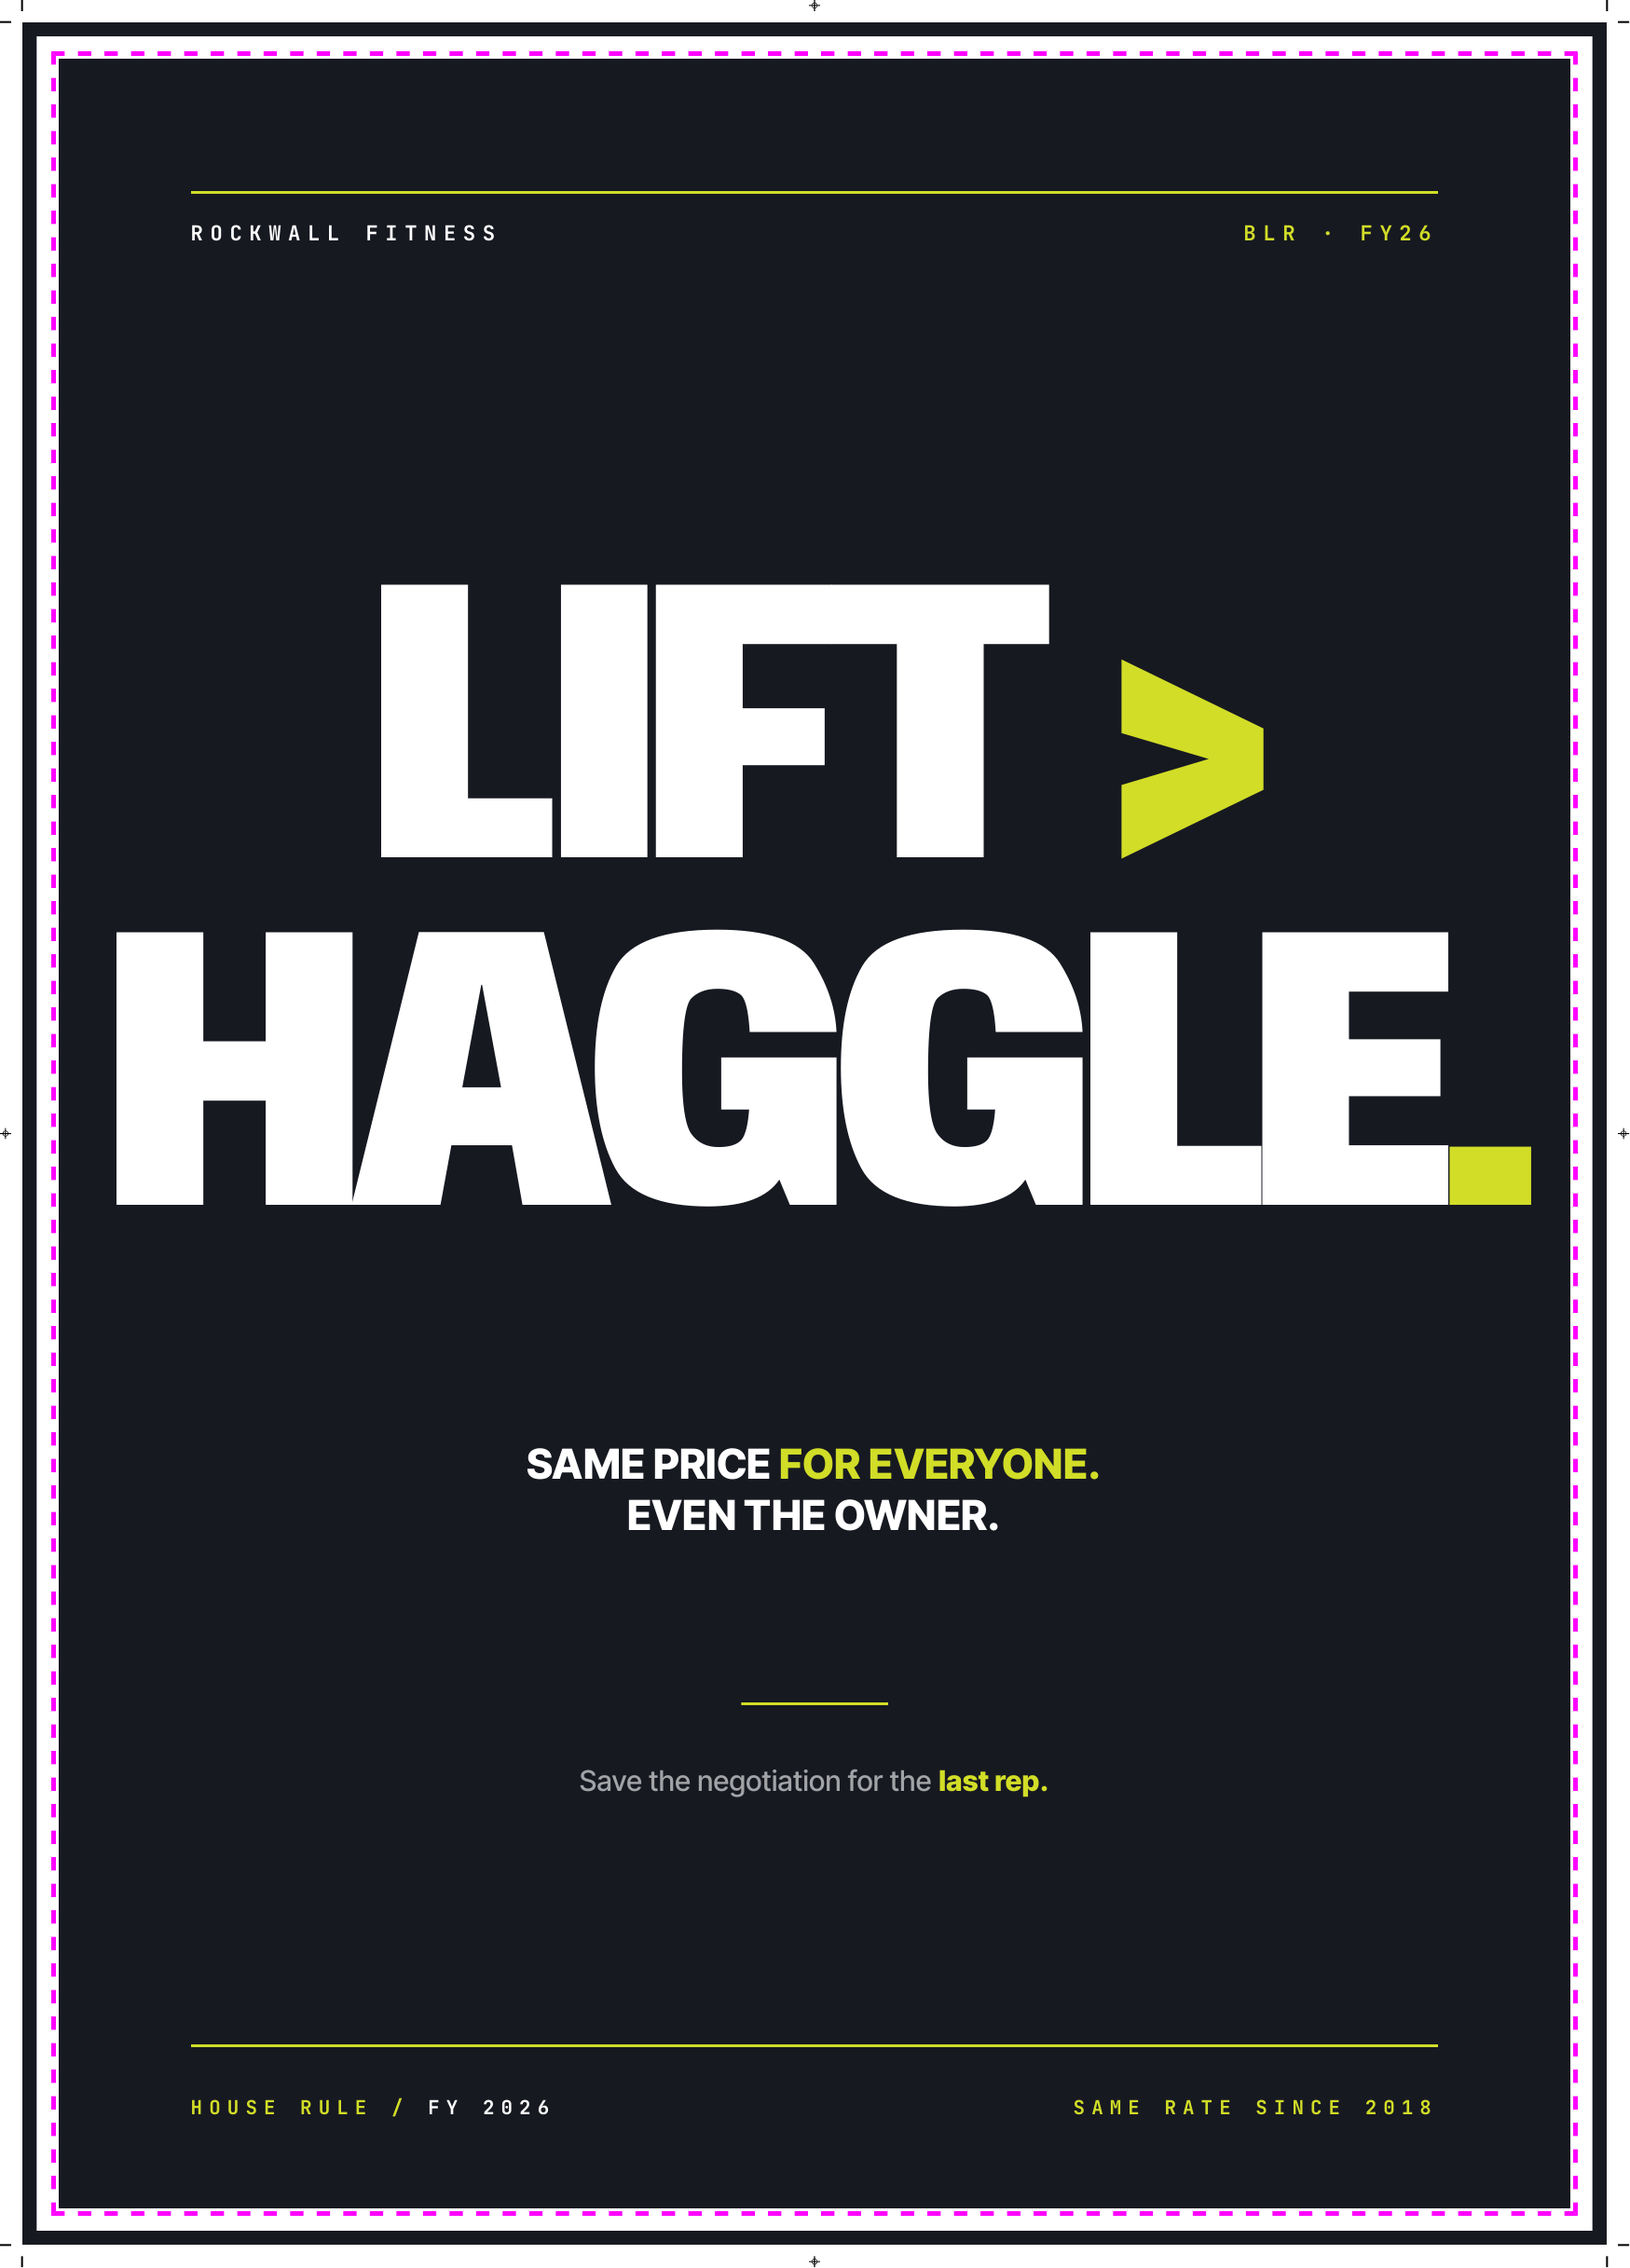
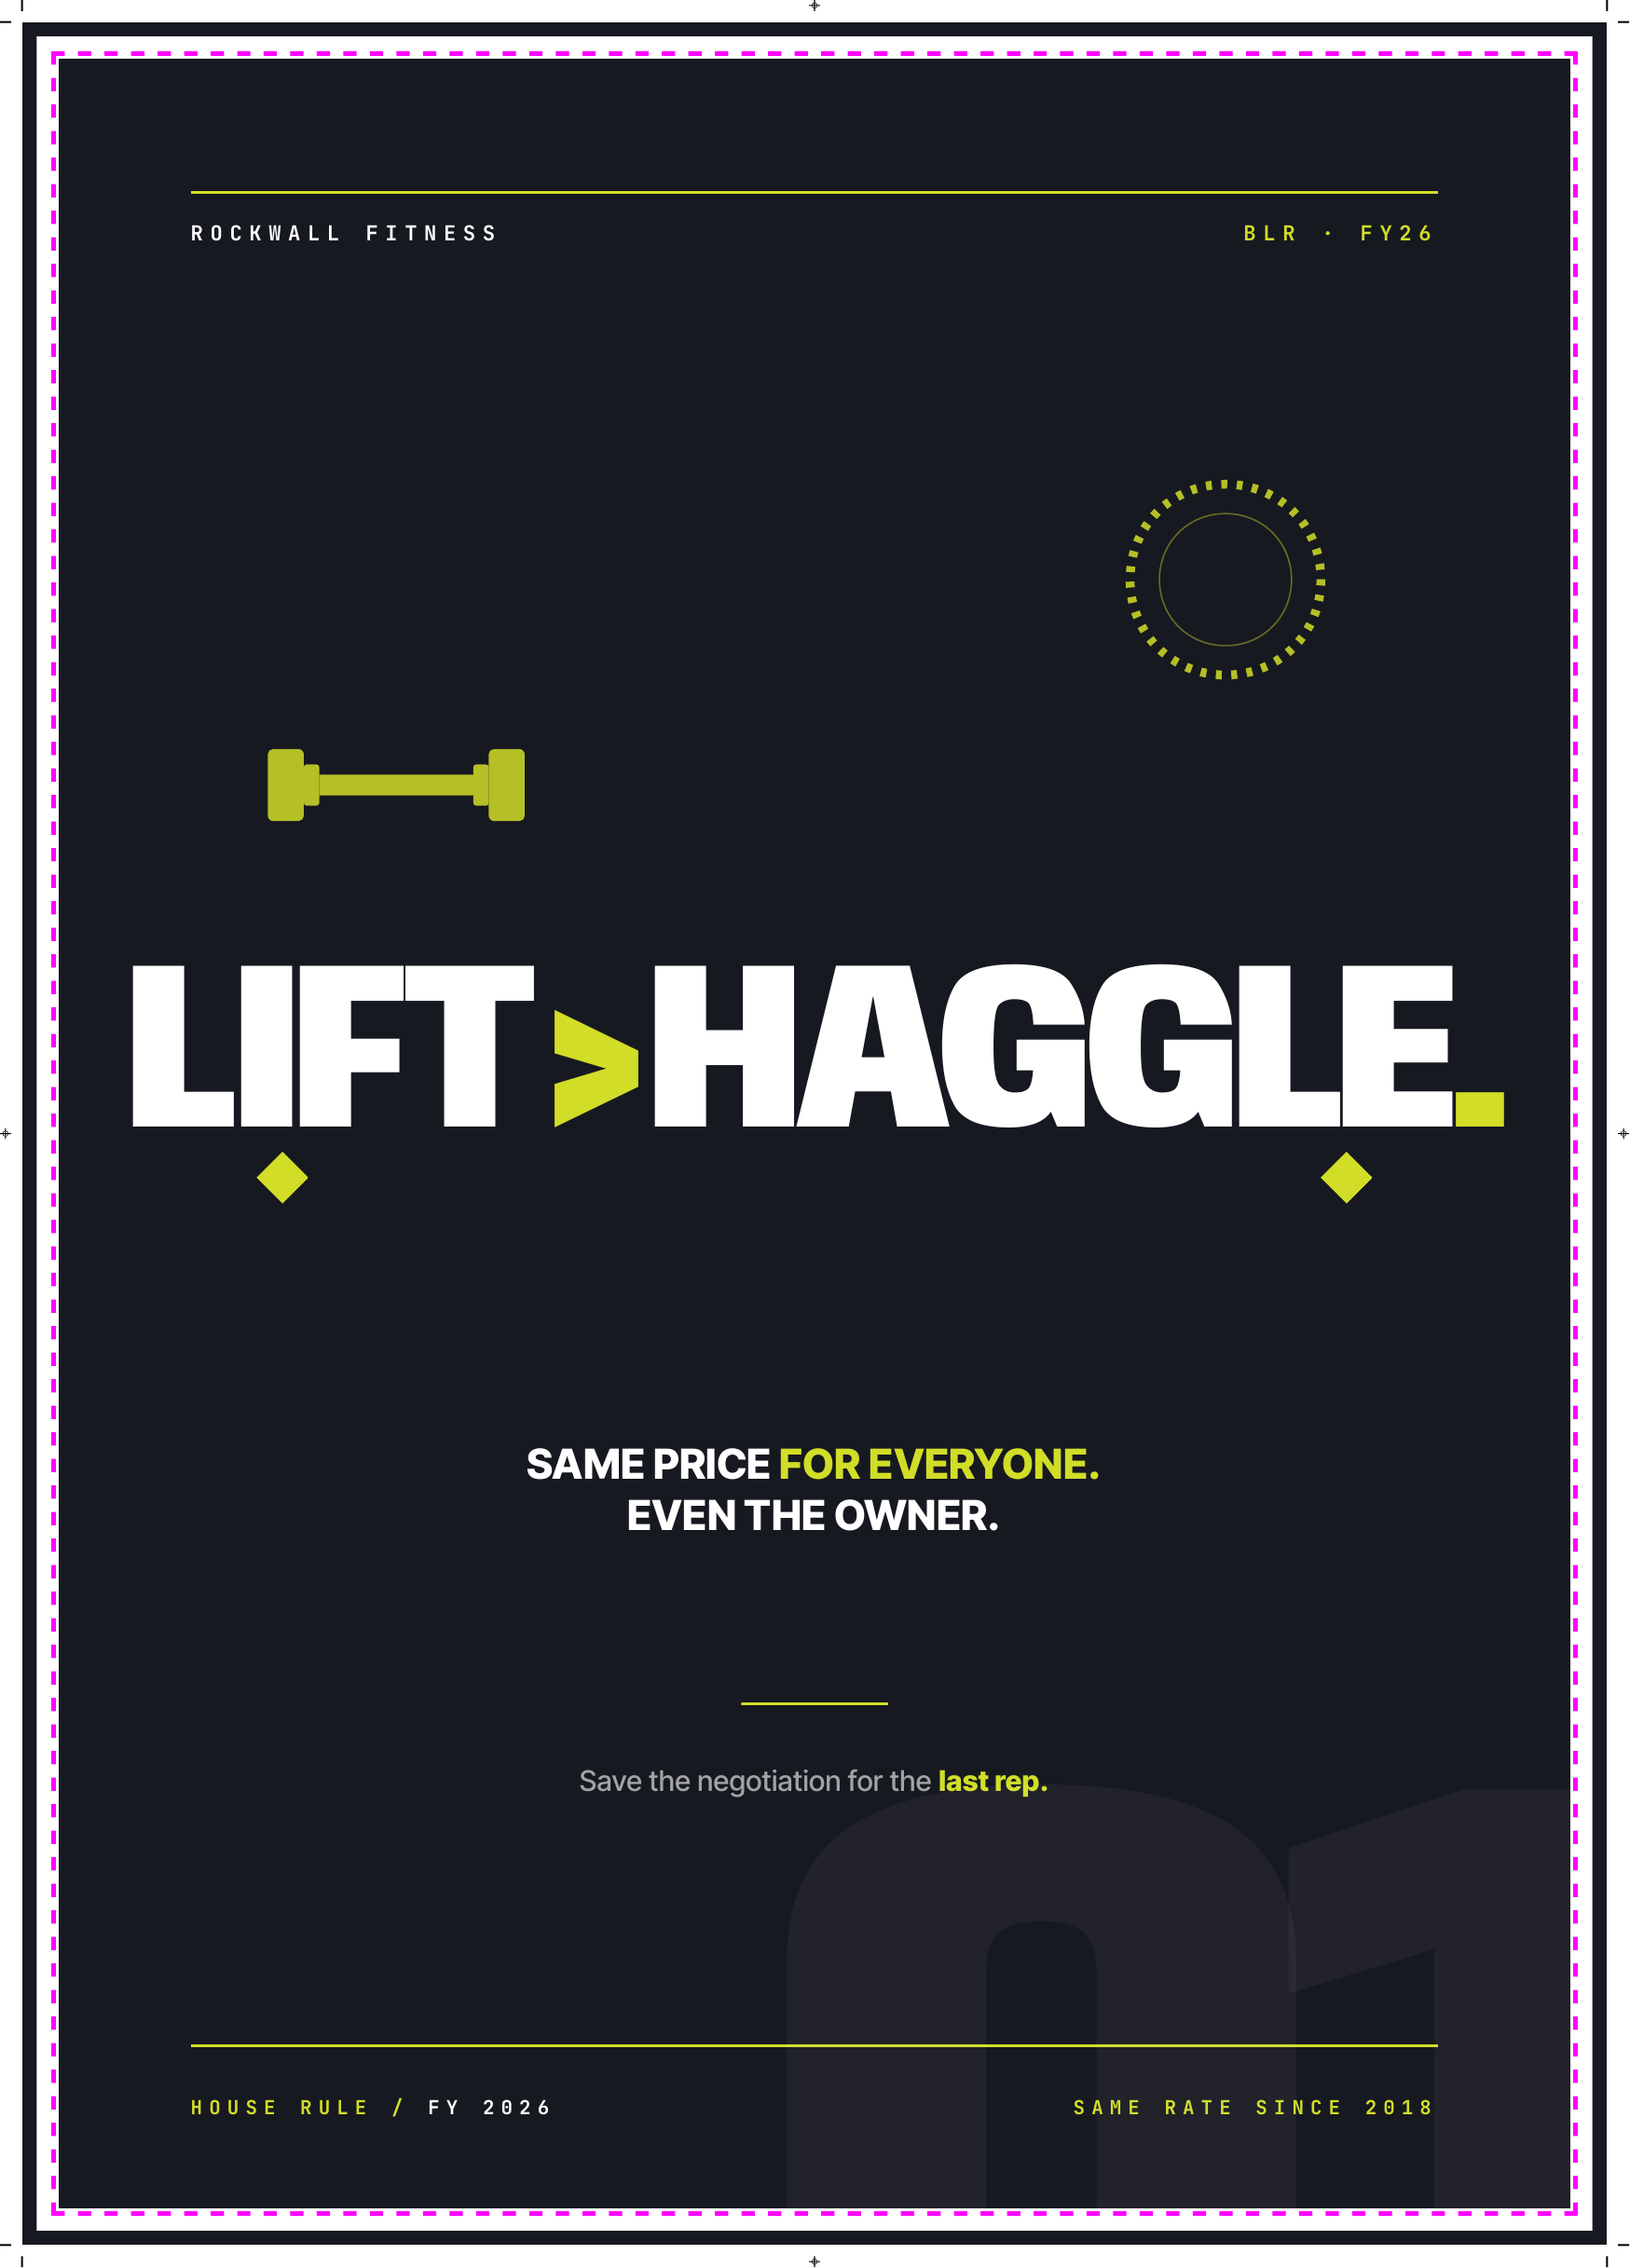
Front-desk v5 — one-line LIFT>HAGGLE. + brand decorations
Switched hero from a 2-line stack to a single billboard line:
  LIFT > HAGGLE.       (Anybody Black, wdth 130, 92pt, white + lime accents)

Added four restrained decoration beats from the brand-kit motif system —
two each side, balanced, all on-brand:
  - Tonal '01' section numeral bleeding off bottom-right (divider device)
  - Lime knurl ring top-right (weight-plate motif)
  - Lime barbell silhouette left of hero (gym signature)
  - Two lime diamond ticks flanking the hero base (bullet chip motif)

Kept the sub, italic credit, and footer untouched. No new structural noise.

Changed region(s): [[0.0617, 0.2498, 0.9571, 0.5308], [0.6792, 0.281, 0.7719, 0.3747]]

diff --git a/sticker_nobargain.html b/sticker_nobargain.html
@@ -45,21 +45,53 @@
   }
   .top-label b { color: var(--paper); }
 
-  /* hero block — 2-line stack, slightly above optical center */
+  /* hero block — ONE LINE */
   .hero {
-    position: absolute; top: 70mm; left: 0; right: 0; text-align: center;
+    position: absolute; top: 122mm; left: 0; right: 0; text-align: center;
     font-family: 'Anybody', sans-serif; font-weight: 900;
-    font-variation-settings: "wdth" 150;
-    font-size: 156pt; line-height: 0.86; letter-spacing: -0.05em;
+    font-variation-settings: "wdth" 130;
+    font-size: 92pt; line-height: 0.9; letter-spacing: -0.04em;
     color: var(--paper); text-transform: uppercase;
+    white-space: nowrap;
+    z-index: 3;
   }
-  .hero .row { display: block; }
   .hero .lime { color: var(--lime); }
   .hero .gt {
     color: var(--lime);
     font-variation-settings: "wdth" 110;
-    margin: 0 1mm;
+    margin: 0 2mm;
   }
+
+  /* big tonal section numeral — bleeding off bottom-right (signature brand-kit divider device) */
+  .ghost-num {
+    position: absolute; right: -22mm; bottom: -38mm;
+    font-family: 'Anybody', sans-serif; font-weight: 900;
+    font-variation-settings: "wdth" 150;
+    font-size: 360pt; line-height: 0.7; letter-spacing: -0.06em;
+    color: rgba(255,255,255,0.045);
+    z-index: 1; pointer-events: none;
+  }
+
+  /* small lime knurl-ring decoration — top right */
+  .knurl {
+    position: absolute; top: 56mm; right: 32mm;
+    width: 30mm; height: 30mm; opacity: 0.85;
+    z-index: 2;
+  }
+  /* small barbell silhouette — left of hero, mirror-balance */
+  .bell {
+    position: absolute; top: 92mm; left: 28mm;
+    width: 36mm; height: 14mm; opacity: 0.85;
+    z-index: 2;
+  }
+  /* diamond accent chips — flank the hero */
+  .diamond {
+    position: absolute; top: 150mm;
+    width: 5mm; height: 5mm; background: var(--lime);
+    transform: rotate(45deg); z-index: 2;
+  }
+  .diamond.l { left: 28mm; }
+  .diamond.r { right: 28mm; }
 
   /* sub line — the warm pat */
   .sub {
@@ -104,9 +136,32 @@
       <div class="top-rule"></div>
       <div class="top-label"><span><b>ROCKWALL FITNESS</b></span><span>BLR · FY26</span></div>
 
+      <!-- background section numeral -->
+      <div class="ghost-num">01</div>
+
+      <!-- decorative knurl ring (gym signature) -->
+      <svg class="knurl" viewBox="0 0 60 60" xmlns="http://www.w3.org/2000/svg">
+        <circle cx="30" cy="30" r="26" fill="none" stroke="#D1DD27" stroke-width="2.4" stroke-dasharray="1.6 2.6"/>
+        <circle cx="30" cy="30" r="18" fill="none" stroke="#D1DD27" stroke-width="0.4" opacity="0.5"/>
+      </svg>
+
+      <!-- decorative barbell -->
+      <svg class="bell" viewBox="0 0 100 40" xmlns="http://www.w3.org/2000/svg">
+        <g fill="#D1DD27" stroke="none">
+          <rect x="0" y="6" width="14" height="28" rx="2"/>
+          <rect x="14" y="12" width="6" height="16" rx="1"/>
+          <rect x="20" y="16" width="60" height="8"/>
+          <rect x="80" y="12" width="6" height="16" rx="1"/>
+          <rect x="86" y="6" width="14" height="28" rx="2"/>
+        </g>
+      </svg>
+
+      <!-- flanking diamond ticks -->
+      <div class="diamond l"></div>
+      <div class="diamond r"></div>
+
       <div class="hero">
-        <span class="row">LIFT <span class="gt">&gt;</span></span>
-        <span class="row">HAGGLE<span class="lime">.</span></span>
+        LIFT<span class="gt">&gt;</span>HAGGLE<span class="lime">.</span>
       </div>
 
       <div class="sub">
